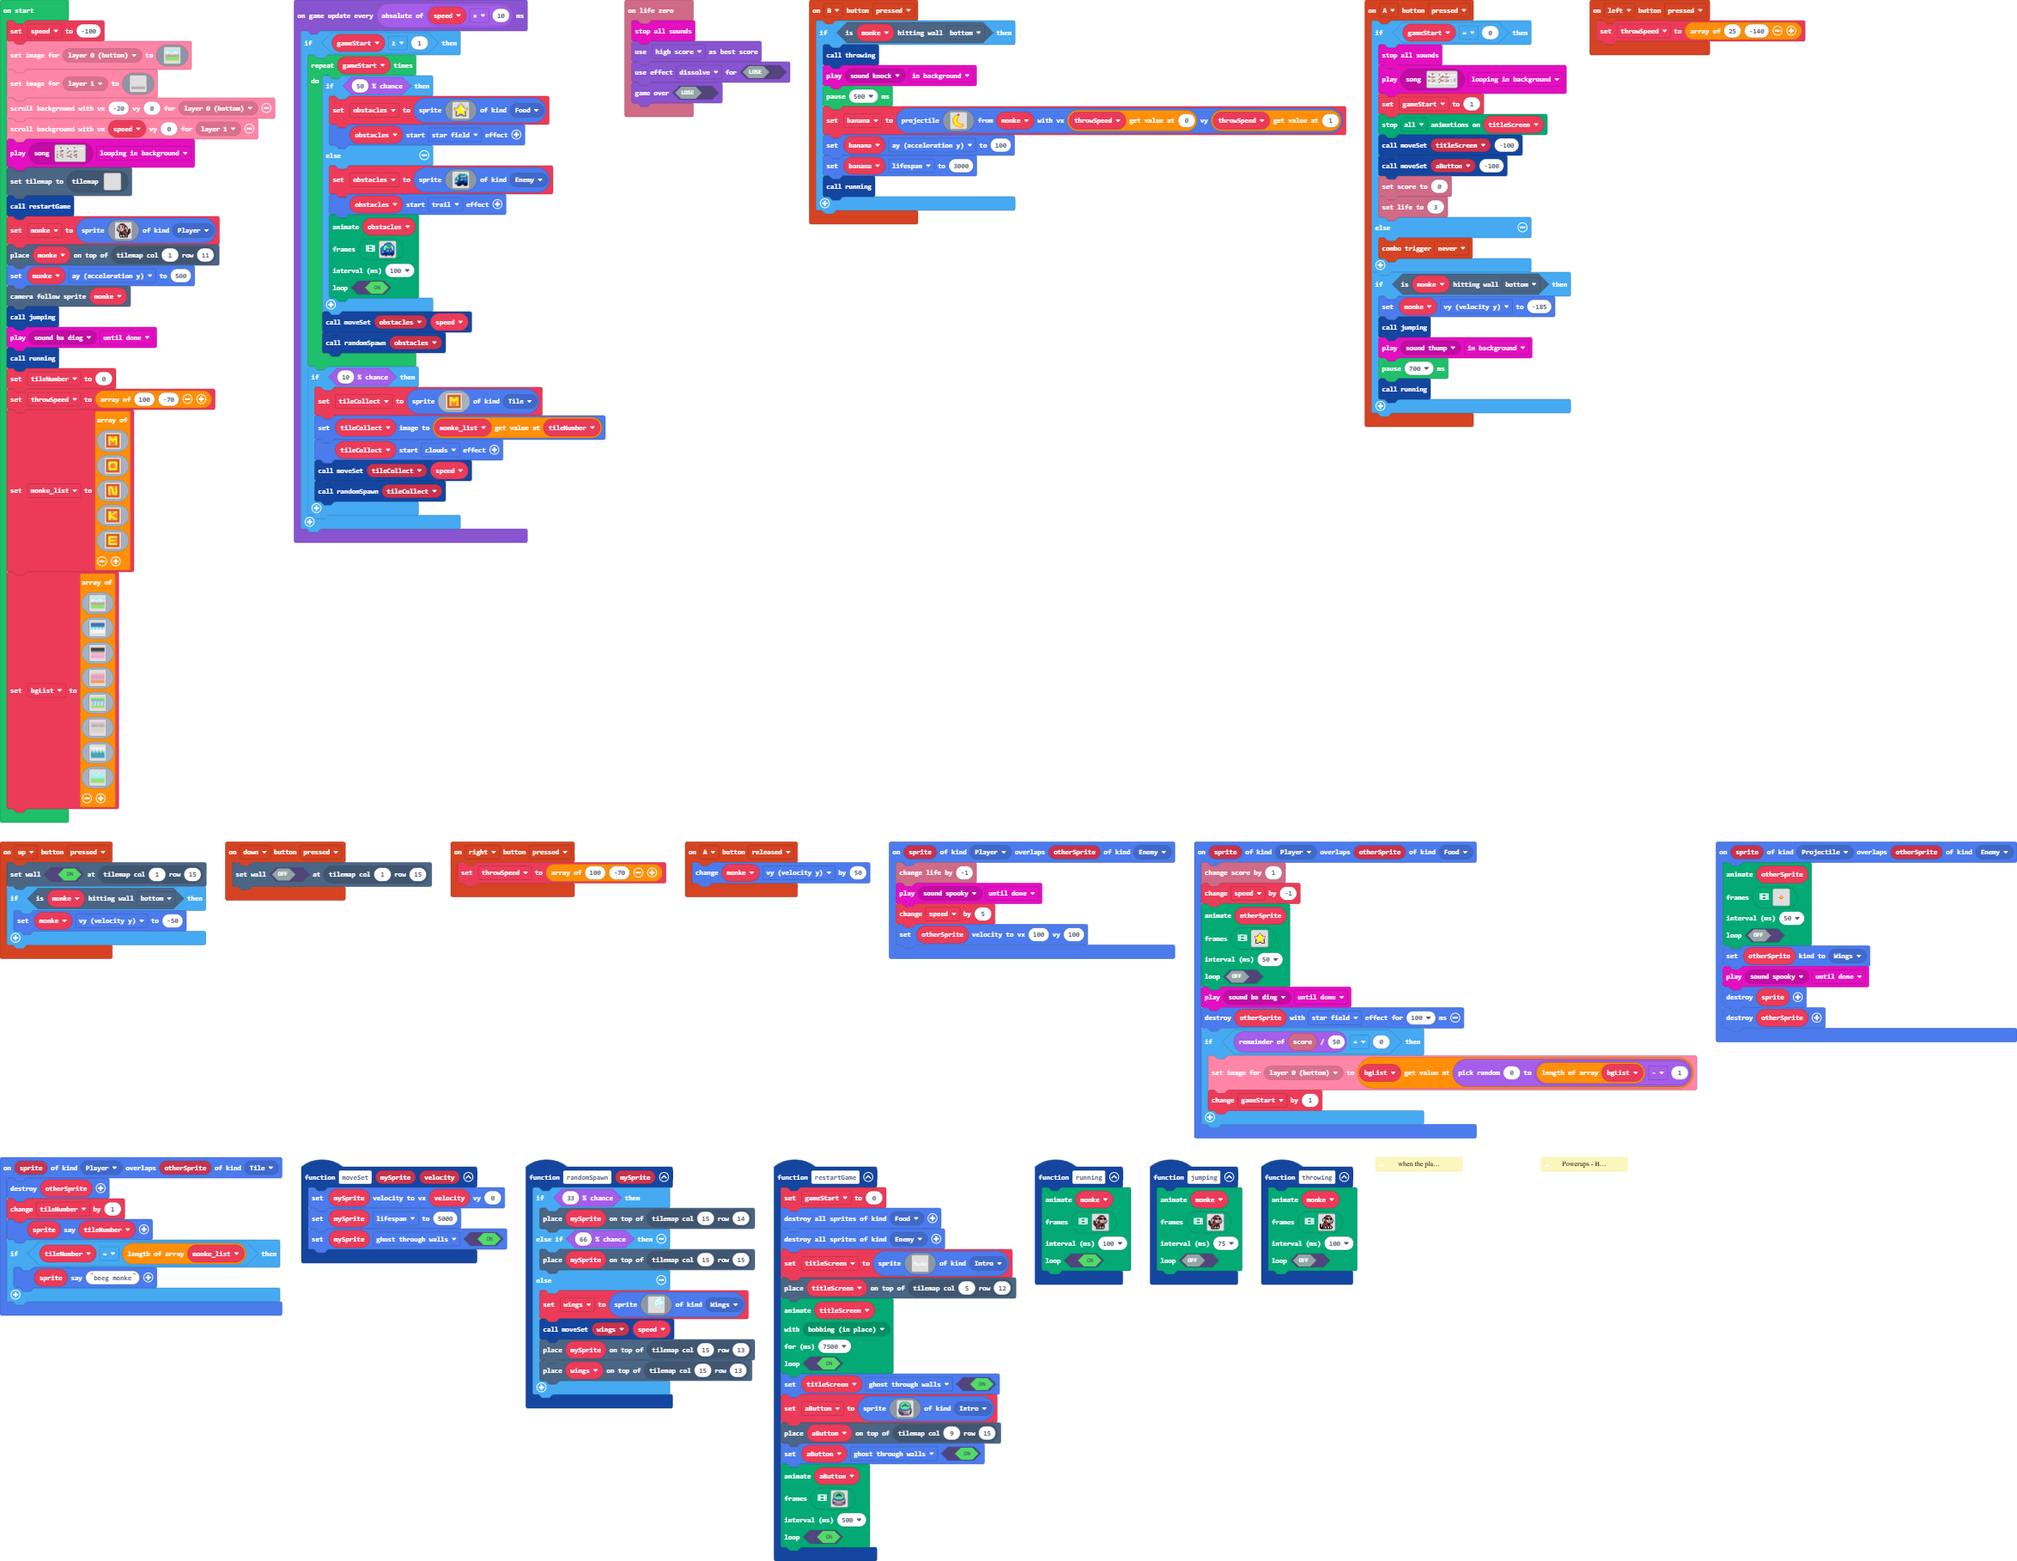
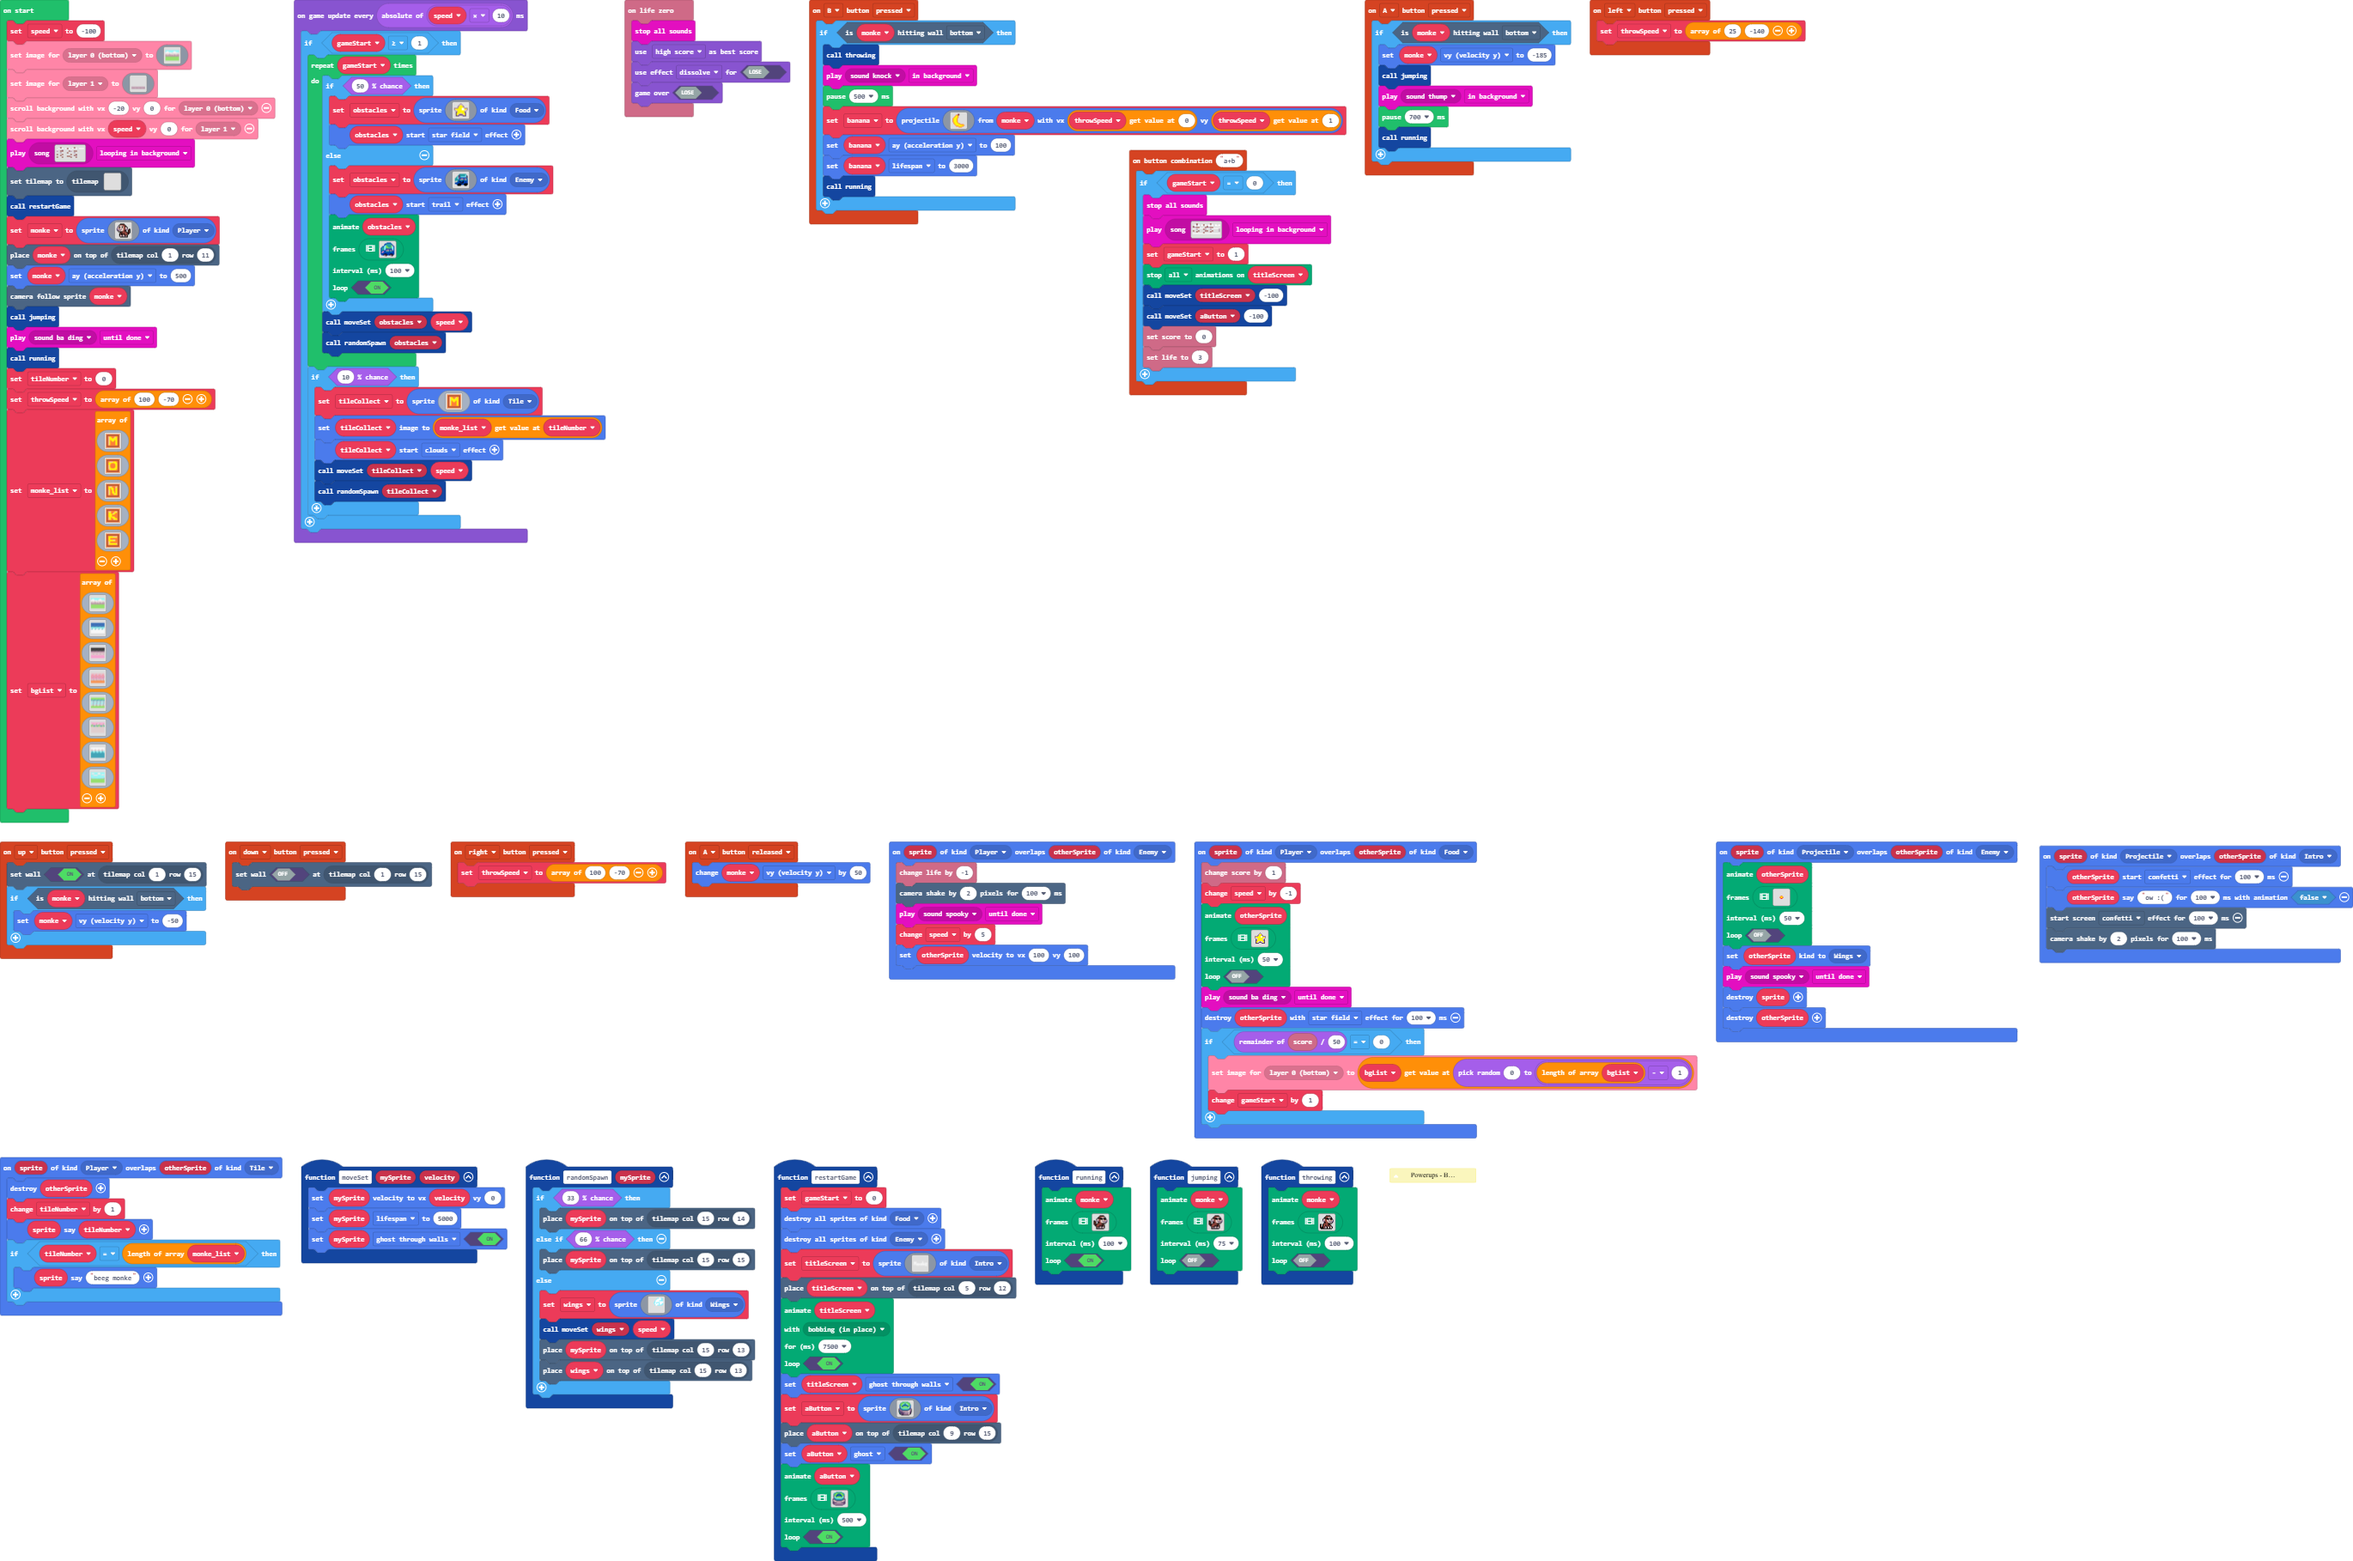
intro shenanigans

Changed region(s): [[0.0, 0.0, 1.0, 1.0]]

diff --git a/main.ts b/main.ts
@@ -4,17 +4,6 @@ namespace SpriteKind {
     export const Tile = SpriteKind.create()
 }
 /**
- * when the player touches the enemy
- * 
- * minus 1 to life
- * 
- * play a spooky sound
- * 
- * add 5 to speed
- * 
- * set enemy speed to 100 for x and y
- */
-/**
  * Powerups
  * 
  * - Big Monke
@@ -221,18 +210,6 @@ controller.B.onEvent(ControllerButtonEvent.Pressed, function () {
     }
 })
 controller.A.onEvent(ControllerButtonEvent.Pressed, function () {
-    if (gameStart == 0) {
-        music.stopAllSounds()
-        music.play(music.createSong(assets.song`in game`), music.PlaybackMode.LoopingInBackground)
-        gameStart = 1
-        animation.stopAnimation(animation.AnimationTypes.All, titleScreen)
-        moveSet(titleScreen, -100)
-        moveSet(aButton, -100)
-        info.setScore(0)
-        info.setLife(3)
-    } else {
-        controller.combos.setTriggerType(TriggerType.Disabled)
-    }
     if (monke.isHittingTile(CollisionDirection.Bottom)) {
         monke.vy = -185
         jumping()
@@ -354,6 +331,18 @@ function throwing () {
 controller.left.onEvent(ControllerButtonEvent.Pressed, function () {
     throwSpeed = [25, -140]
 })
+controller.combos.attachCombo("a+b", function () {
+    if (gameStart == 0) {
+        music.stopAllSounds()
+        music.play(music.createSong(assets.song`in game`), music.PlaybackMode.LoopingInBackground)
+        gameStart = 1
+        animation.stopAnimation(animation.AnimationTypes.All, titleScreen)
+        moveSet(titleScreen, -100)
+        moveSet(aButton, -100)
+        info.setScore(0)
+        info.setLife(3)
+    }
+})
 function moveSet (mySprite: Sprite, velocity: number) {
     mySprite.setVelocity(velocity, 0)
     mySprite.lifespan = 5000
@@ -461,7 +450,7 @@ function restartGame () {
         ........ffffffffffffffff........
         `, SpriteKind.Intro)
     tiles.placeOnTile(aButton, tiles.getTileLocation(9, 15))
-    aButton.setFlag(SpriteFlag.GhostThroughWalls, true)
+    aButton.setFlag(SpriteFlag.Ghost, true)
     animation.runImageAnimation(
     aButton,
     [img`
@@ -514,6 +503,12 @@ info.onLifeZero(function () {
     game.setGameOverScoringType(game.ScoringType.HighScore)
     game.setGameOverEffect(false, effects.dissolve)
     game.gameOver(false)
+})
+sprites.onOverlap(SpriteKind.Projectile, SpriteKind.Intro, function (sprite, otherSprite) {
+    otherSprite.startEffect(effects.confetti, 100)
+    otherSprite.sayText("ow :(", 100, false)
+    effects.confetti.startScreenEffect(100)
+    scene.cameraShake(2, 100)
 })
 function running () {
     animation.runImageAnimation(
@@ -828,6 +823,7 @@ sprites.onOverlap(SpriteKind.Projectile, SpriteKind.Enemy, function (sprite, oth
 })
 sprites.onOverlap(SpriteKind.Player, SpriteKind.Enemy, function (sprite, otherSprite) {
     info.changeLifeBy(-1)
+    scene.cameraShake(2, 100)
     music.play(music.melodyPlayable(music.spooky), music.PlaybackMode.UntilDone)
     speed += 5
     otherSprite.setVelocity(100, 100)
